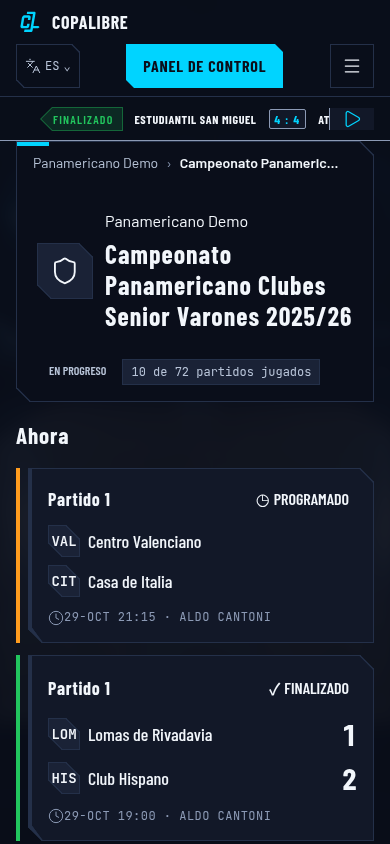
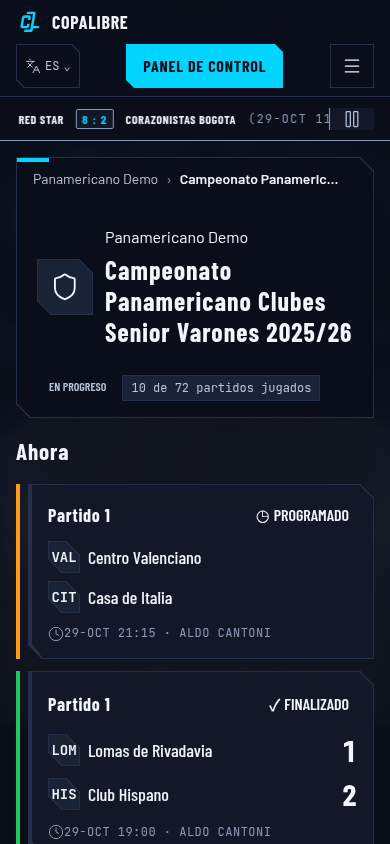
fix(web): add space between ticker and overview

diff --git a/e2e/public-tournament-overview.spec.ts b/e2e/public-tournament-overview.spec.ts
@@ -389,6 +389,15 @@ test.describe('tournament overview progress and rules', () => {
     await page.goto(PAGE);
     await page.evaluate(() => document.fonts.ready);
 
+    const tickerToHeroGap = () =>
+      page.evaluate(() => {
+        const ticker = document.querySelector('.cl-ticker');
+        const hero = document.querySelector('.cl-overview-hero');
+        if (!ticker || !hero) throw new Error('Expected overview ticker and hero');
+        return hero.getBoundingClientRect().top - ticker.getBoundingClientRect().bottom;
+      });
+    expect(await tickerToHeroGap()).toBeGreaterThanOrEqual(16);
+
     const nowStrip = page.locator('.cl-overview-now');
     await expect(nowStrip).toBeVisible();
     const kickoff = nowStrip.locator('.cl-overview-now__item--upcoming').getByText(/16:00/).first();
@@ -420,6 +429,7 @@ test.describe('tournament overview progress and rules', () => {
 
     await page.setViewportSize({ width: 390, height: 844 });
     await page.reload();
+    expect(await tickerToHeroGap()).toBeGreaterThanOrEqual(16);
     const mobileUpcoming = page.locator('.cl-overview-now__item--upcoming');
     await expect(mobileUpcoming).toContainText('Red Star');
     await expect(mobileUpcoming).toContainText('Corazonistas Bogotá');
